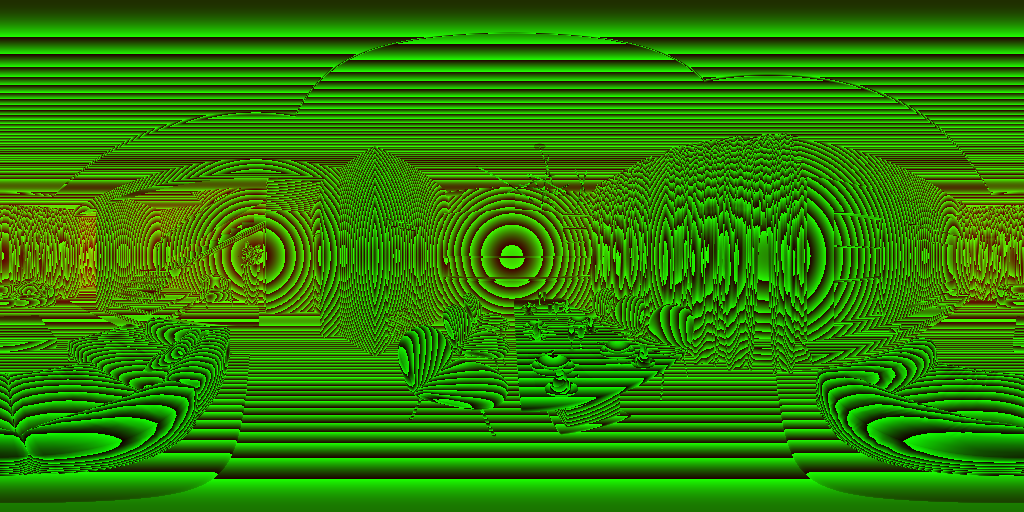
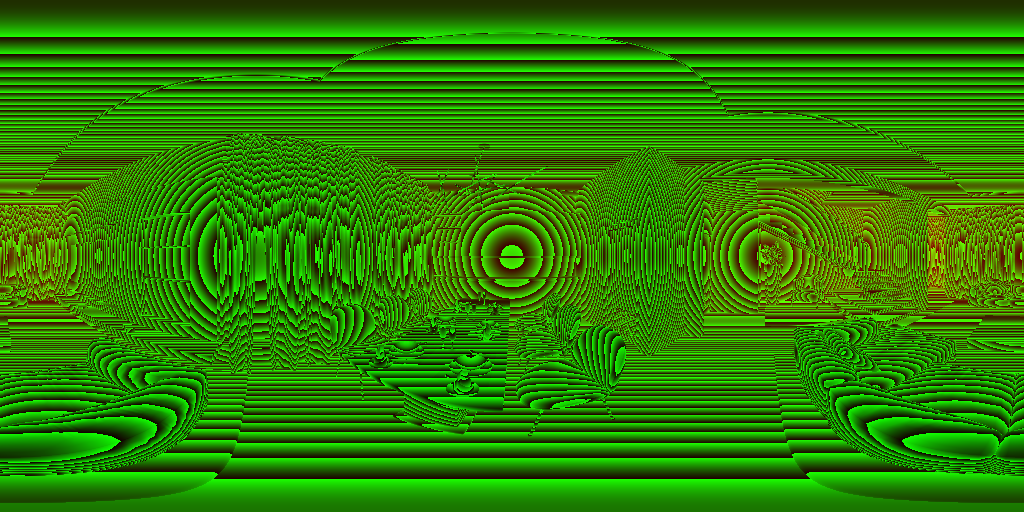
Phase 1 nav layer: unhide .hs hotspots; dining+bathroom depth un-mirrored (kitchen verified correct, revert); manifest: 18 doorway links from 30-door census

diff --git a/bathroom-premium/tour_v2.html b/bathroom-premium/tour_v2.html
@@ -65,7 +65,7 @@ const cam = new THREE.PerspectiveCamera(FOV_DEFAULT, innerWidth/innerHeight, 0.0
 const loader = new THREE.TextureLoader();
 const [panoTex, depthTex] = await Promise.all([
   loader.loadAsync('panos/bathroom.jpg?v=20260915b'),
-  loader.loadAsync('panos/depth_rgbd.png?v=20260915b')
+  loader.loadAsync('panos/depth_rgbd.png?v=20260916mirrorfix')
 ]);
 panoTex.colorSpace = THREE.SRGBColorSpace;
 depthTex.minFilter = depthTex.magFilter = THREE.LinearFilter;

diff --git a/kitchen-premium/tour_v2.html b/kitchen-premium/tour_v2.html
@@ -66,7 +66,7 @@ const cam = new THREE.PerspectiveCamera(FOV_DEFAULT, innerWidth/innerHeight, 0.0
 const loader = new THREE.TextureLoader();
 const [panoTex, depthTex] = await Promise.all([
   loader.loadAsync('panos/kitchen.jpg?v=20260915k'),
-  loader.loadAsync('panos/depth_rgbd.png?v=20260915k')
+  loader.loadAsync('panos/depth_rgbd.png?v=20260916mirrorfix')
 ]);
 panoTex.colorSpace = THREE.SRGBColorSpace;
 depthTex.minFilter = depthTex.magFilter = THREE.LinearFilter;

diff --git a/dining-premium/tour_v2.html b/dining-premium/tour_v2.html
@@ -65,7 +65,7 @@ const cam = new THREE.PerspectiveCamera(FOV_DEFAULT, innerWidth/innerHeight, 0.0
 const loader = new THREE.TextureLoader();
 const [panoTex, depthTex] = await Promise.all([
   loader.loadAsync('panos/dining.jpg?v=20260915d'),
-  loader.loadAsync('panos/depth_rgbd.png?v=20260915d')
+  loader.loadAsync('panos/depth_rgbd.png?v=20260916mirrorfix')
 ]);
 panoTex.colorSpace = THREE.SRGBColorSpace;
 depthTex.minFilter = depthTex.magFilter = THREE.LinearFilter;
